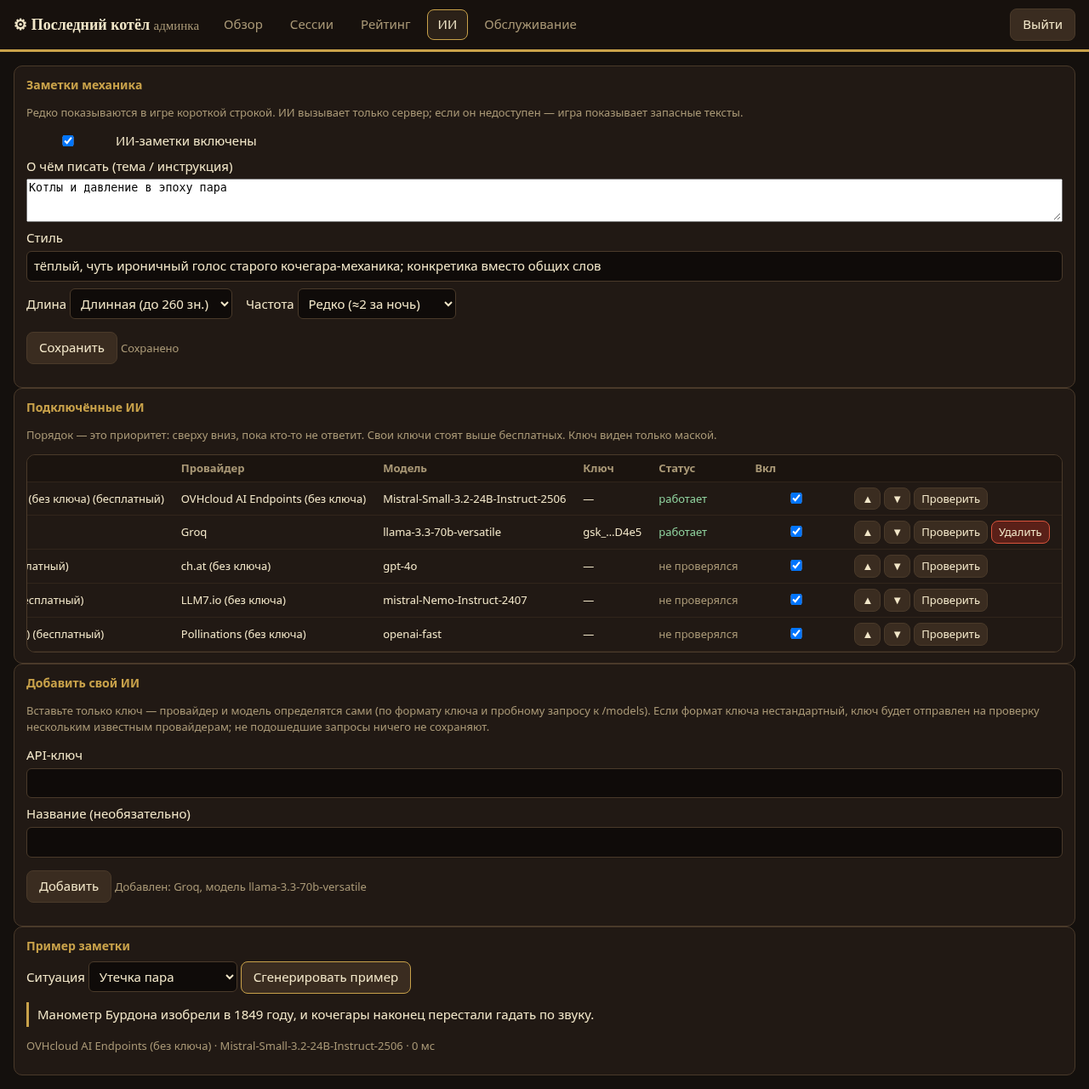
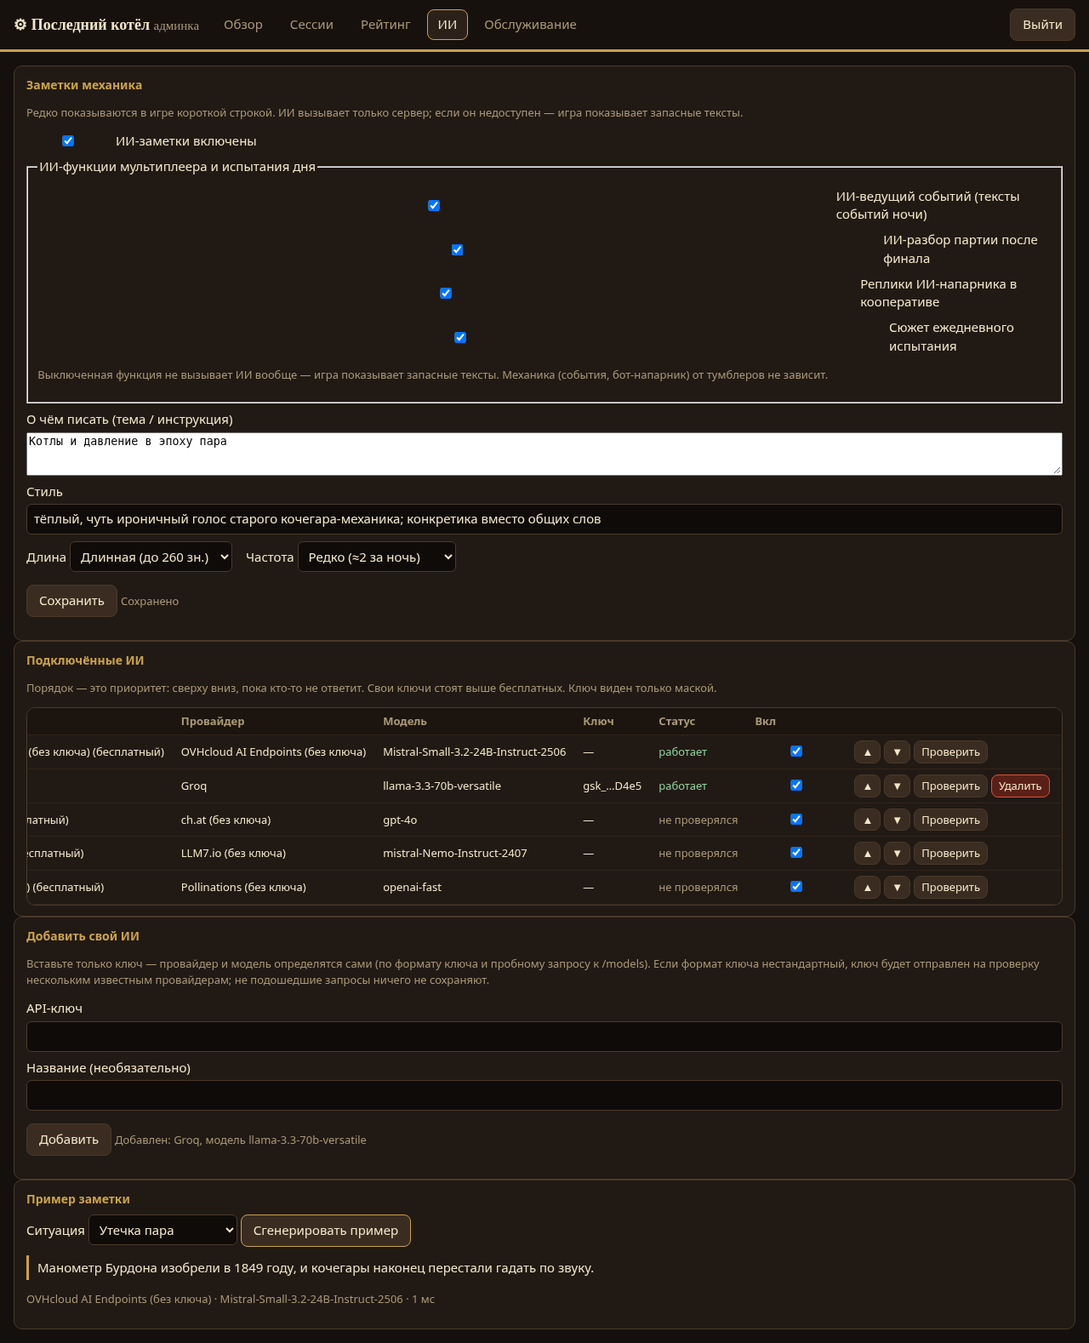
2.0 м2: e2e соревнования/бота/дня/достижений, воркер: маршруты дня и разбора, тесты админ-переключателей

diff --git a/tests/pw/versus.pw.js b/tests/pw/versus.pw.js
@@ -1,0 +1,132 @@
+// e2e 2.0 м2: соревнование на два браузера (общий сид, живая таблица, финал с местами, проверка сервером), ИИ-напарник в кооперативе,
+// испытание дня (задание, рейтинг дня), ссылка-вызов, достижения, карточка-шаринг. Против локального стенда; часы комнат ускорены (SEG_MP_TIMESCALE).
+const { ok, results, sleep, launch } = require('./lib');
+const path = require('path'), fs = require('fs');
+const SHOTS = path.resolve(__dirname, '../../screenshots/v2.0'); fs.mkdirSync(SHOTS, { recursive: true });
+const G = (p, f, a) => p.evaluate(f, a);
+const until = async (p, f, ms = 15000, arg) => { const t0 = Date.now(); while (Date.now() - t0 < ms) { try { if (await p.evaluate(f, arg)) return true; } catch (e) { /* перезагрузка */ } await sleep(150); } return false; };
+
+(async () => {
+  const stack = await require('../devstack').start({ env: { SEG_MP_TIMESCALE: '30', SEG_MP_CREATES: '60' } });
+  const b = await launch(); const errs = [];
+  const mk = async (opts) => { const ctx = await b.newContext(opts); const page = await ctx.newPage(); await ctx.grantPermissions([], {}).catch(() => {});
+    page.on('console', m => { if (m.type() === 'error' && !/\/api\/(g|admin)\//.test(m.location().url || '')) errs.push(m.text()); });
+    page.on('pageerror', e => errs.push('pageerror: ' + e.message)); return { ctx, page }; };
+  const A = await mk({ viewport: { width: 1280, height: 800 } });
+  const B = await mk({ viewport: { width: 412, height: 860 }, deviceScaleFactor: 2, isMobile: true, hasTouch: true });
+  const pa = A.page, pb = B.page;
+  const Q = `?debug&ws=${encodeURIComponent(stack.ws)}`;
+  try {
+    console.log('\n== Соревнование: лобби');
+    await pa.goto(stack.base + '/' + Q); await pa.waitForSelector('#b-mp', { state: 'visible' });
+    await pa.click('#b-mp'); await pa.waitForSelector('#lobby:not([hidden])');
+    ok(await pa.isVisible('#mp-mode'), 'в лобби есть выбор режима');
+    await pa.fill('#mp-nick', 'Анна'); await pa.selectOption('#mp-max', '2'); await pa.selectOption('#mp-mode', 'versus'); await pa.click('#mp-create');
+    ok(await until(pa, () => !document.getElementById('mp-room').hidden), 'комната создана');
+    ok((await pa.textContent('#mp-modename')).includes('Соревнование'), 'метка режима «Соревнование»');
+    ok(await pa.isHidden('#mp-bot'), 'ИИ-напарника в соревновании нет');
+    const code = await pa.textContent('#mp-roomcode');
+    await pb.goto(stack.base + '/' + Q + '&room=' + code); await pb.waitForSelector('#lobby:not([hidden])');
+    await pb.fill('#mp-nick', 'Борис'); await pb.click('#mp-join');
+    ok(await until(pb, () => !document.getElementById('mp-room').hidden) && (await pb.textContent('#mp-modename')).includes('Соревнование'), 'второй игрок в комнате соревнования');
+    await pb.click('#mp-ready'); ok(await until(pa, () => !document.getElementById('mp-start').disabled), 'старт доступен');
+    await pa.click('#mp-start');
+    ok(await until(pa, () => window.__game.ui === 'play' && window.__game.mp.inGame) && await until(pb, () => window.__game.ui === 'play' && window.__game.mp.inGame), 'оба в гонке');
+    const seedA = await G(pa, () => window.__game.s.seed), seedB = await G(pb, () => window.__game.s.seed);
+    ok(seedA > 0 && seedA === seedB, 'общий сид у обоих: ' + seedA);
+    ok(JSON.stringify(await G(pa, () => window.__game.mp.mine.valves)) === '[0,1,2,3]' && await G(pa, () => window.__game.mp.mine.shovel), 'у каждого свой котёл целиком (все вентили и лопата)');
+    ok(await until(pa, () => !document.getElementById('mp-board').hidden && document.querySelectorAll('#mp-board li').length === 2, 8000), 'живая таблица гонки: 2 строки');
+    ok(await until(pb, () => !document.getElementById('mp-board').hidden && document.querySelectorAll('#mp-board li').length === 2, 8000), 'таблица видна и на телефоне');
+    // Анна активно играет (лопата), Борис молчит → у Анны очки/огонь выше
+    for (let i = 0; i < 6; i++) { const sp = await pa.evaluate(() => window.__game.shovelPt()); await pa.mouse.click(sp.x, sp.y); await sleep(260); }
+    ok(await until(pa, () => window.__game.s.fire > 5, 5000), 'бросок угля работает в своём котле');
+    ok(await G(pb, () => window.__game.s.fire) < await G(pa, () => window.__game.s.fire), 'котёл соперника не затронут');
+    await pa.screenshot({ path: path.join(SHOTS, 'versus-play-desktop.png') }); await pb.screenshot({ path: path.join(SHOTS, 'versus-play-mobile.png') });
+
+    console.log('\n== Соревнование: финал');
+    const drive = async (p) => { const t0 = Date.now(); while (Date.now() - t0 < 170000) { const st = await G(p, () => window.__game.ui).catch(() => ''); if (st === 'ending') return true; if (st === 'card') await p.click('#c-opts .choice >> nth=0').catch(() => {}); else if (st === 'summary') await p.click('#b-next').catch(() => {}); await sleep(200); } return false; };
+    const [ea, eb] = await Promise.all([drive(pa), drive(pb)]);
+    ok(ea && eb, 'оба дошли до финального экрана');
+    ok(await until(pa, () => document.querySelectorAll('#e-places-list li').length === 2 && !document.getElementById('e-places').hidden, 20000), 'финал: список мест (2 игрока)');
+    ok(await until(pb, () => document.querySelectorAll('#e-places-list li').length === 2, 20000), 'тот же список на телефоне');
+    const txt = await pa.$$eval('#e-places-list li', l => l.map(x => x.textContent));
+    ok(txt.some(t => t.includes('Анна')) && txt.some(t => t.includes('Борис')), 'в местах оба ника');
+    ok(txt.every(t => /проверено сервером/.test(t)), 'у каждого отметка «проверено сервером»');
+    const scs = await pa.$$eval('#e-places-list li span', l => l.map(x => parseInt(x.textContent, 10)));
+    ok(scs.length === 2 && scs[0] >= scs[1], 'места отсортированы по очкам: ' + scs.join(' ≥ '));
+    ok(await until(pa, () => !document.getElementById('e-review').hidden && document.getElementById('e-review').textContent.length > 20, 20000), 'разбор партии (ИИ или запасной) показан');
+    ok(!(await pa.textContent('#e-review')).includes('Анна') && !(await pa.textContent('#e-review')).includes('Борис'), 'в разборе нет ников');
+    ok(await G(pa, () => !!window.__game.meta.ach.rival), 'достижение «Соперник» получено');
+    await pa.screenshot({ path: path.join(SHOTS, 'versus-final-desktop.png') }); await pb.screenshot({ path: path.join(SHOTS, 'versus-final-mobile.png'), fullPage: false });
+    // шаринг: карточка и ссылка
+    await pa.click('#b-share'); await sleep(700);
+    ok((await pa.textContent('#e-share-msg')).length > 5, 'шаринг: есть сообщение («' + (await pa.textContent('#e-share-msg')).slice(0, 60) + '»)');
+    const px = await G(pa, () => { const c = document.getElementById('share-cv'), d = c.getContext('2d').getImageData(0, 0, c.width, c.height).data; let n = 0; for (let i = 0; i < d.length; i += 4 * 97) if (d[i] > 120) n++; return { w: c.width, h: c.height, n }; });
+    ok(px.w === 1200 && px.h === 630 && px.n > 200, 'карточка-картинка 1200×630 нарисована (светлых точек ' + px.n + ')');
+    ok(await G(pa, () => !!window.__game.meta.ach.sharer), 'достижение за шаринг');
+
+    console.log('\n== ИИ-напарник в кооперативе');
+    const pc = (await mk({ viewport: { width: 1280, height: 800 } })).page;
+    await pc.goto(stack.base + '/' + Q); await pc.click('#b-mp'); await pc.fill('#mp-nick', 'Вера'); await pc.selectOption('#mp-max', '2'); await pc.click('#mp-create');
+    ok(await until(pc, () => !document.getElementById('mp-room').hidden), 'кооператив создан');
+    ok(await pc.isVisible('#mp-bot'), 'кнопка «+ ИИ-напарник» видна хозяину');
+    await pc.click('#mp-bot');
+    ok(await until(pc, () => document.querySelectorAll('#mp-players li.bot').length === 1), 'бот в списке игроков');
+    ok((await pc.textContent('#mp-players li.bot')).includes('Механик ИИ'), 'имя «Механик ИИ»');
+    ok(await until(pc, () => !document.getElementById('mp-start').disabled), 'старт доступен: человек + бот');
+    await pc.click('#mp-start');
+    ok(await until(pc, () => window.__game.ui === 'play' && window.__game.mp.inGame), 'игра с ботом началась');
+    ok(await until(pc, () => window.__game.s.t > 3 && window.__game.s.fire > 3, 40000), 'бот сам подбрасывает уголь (огонь растёт без действий человека)');
+    ok(await until(pc, () => document.querySelectorAll('#mp-chatlog li').length >= 1, 40000), 'бот пишет реплику в чат');
+    await pc.screenshot({ path: path.join(SHOTS, 'coop-bot.png') });
+
+    console.log('\n== Испытание дня');
+    const pd = (await mk({ viewport: { width: 1280, height: 800 } })).page;
+    await pd.goto(stack.base + '/' + Q); await pd.waitForSelector('#b-daily', { state: 'visible' });
+    await pd.click('#b-daily');
+    ok(await until(pd, () => !document.getElementById('d-play').disabled && document.getElementById('d-title').textContent.length > 3), 'загружено задание дня: ' + (await pd.textContent('#d-title')));
+    ok((await pd.textContent('#d-story')).length > 20 && (await pd.textContent('#d-goal')).startsWith('Задание'), 'сюжет и цель задания показаны');
+    await pd.screenshot({ path: path.join(SHOTS, 'daily-overlay.png') });
+    await pd.click('#d-play');
+    ok(await until(pd, () => window.__game.ui === 'play' && window.__game.s.hostOn === true), 'старт испытания: ведущий включён');
+    const dseed = await G(pd, () => window.__game.s.seed);
+    const apiSeed = await (await fetch(stack.base + '/api/g/daily')).json();
+    ok(apiSeed.seed === dseed, 'сид игры = сид дня с сервера (' + dseed + ')');
+    await pd.evaluate(() => { window.__game.setBot('good', { react: 0.5 }); window.__game.setSpeed(30); });
+    const dr = await (async () => { const t0 = Date.now(); while (Date.now() - t0 < 170000) { const st = await G(pd, () => window.__game.ui); if (st === 'ending') return true; if (st === 'card') await pd.click('#c-opts .choice >> nth=0').catch(() => {}); else if (st === 'summary') await pd.click('#b-next').catch(() => {}); await sleep(120); } return false; })();
+    ok(dr, 'испытание пройдено до финала');
+    ok(await pd.isVisible('#e-daily-msg') && (await pd.textContent('#e-daily-msg')).includes('Задание'), 'финал показывает исход задания: ' + (await pd.textContent('#e-daily-msg')).slice(0, 70));
+    ok(await pd.evaluate(() => localStorage.getItem('last-boiler-save-v1')) === null, 'одиночное сохранение испытанием не затронуто');
+    await pd.fill('#e-nick', 'Дарья'); await pd.click('#b-submit');
+    ok(await until(pd, () => /место/.test(document.getElementById('e-rank-msg').textContent), 8000), 'результат записан в рейтинг дня: ' + (await pd.textContent('#e-rank-msg')).slice(0, 80));
+    const board = await (await fetch(stack.base + '/api/g/daily/board')).json();
+    ok(board.entries.length === 1 && board.entries[0].nick === 'Дарья', 'рейтинг дня на сервере содержит запись');
+    ok(await G(pd, () => window.__game.meta.st.streak === 1 && !!window.__game.meta.ach.first_dawn), 'серия дней = 1, достижения выданы');
+    await pd.screenshot({ path: path.join(SHOTS, 'daily-final.png') });
+    // достижения: экран
+    await pd.click('#b-emenu'); await pd.click('#b-ach');
+    const cnt = await pd.$$eval('#a-list li', l => ({ n: l.length, got: l.filter(x => !x.classList.contains('lock')).length, svg: l.filter(x => x.querySelector('svg')).length }));
+    ok(cnt.n >= 20 && cnt.svg === cnt.n && cnt.got >= 1, `экран достижений: ${cnt.n} шт., получено ${cnt.got}, у всех значок`);
+    await pd.screenshot({ path: path.join(SHOTS, 'achievements.png') });
+    await pd.click('#a-close');
+    // вкладки рейтинга: сезон и день
+    await pd.evaluate(() => { document.getElementById('b-board').hidden = false; }); await pd.click('#b-board');
+    await pd.click('#board .tab[data-board="day"]'); ok(await until(pd, () => document.querySelectorAll('#lb-list li').length === 1), 'вкладка «День»: 1 запись');
+    await pd.click('#board .tab[data-board="season"]'); ok(await until(pd, () => /Сезон|Пока пусто/.test(document.getElementById('lb-msg').textContent)), 'вкладка «Сезон» отвечает');
+    await pd.click('#b-lbclose');
+
+    console.log('\n== Ссылка-вызов');
+    const pe = (await mk({ viewport: { width: 412, height: 860 }, isMobile: true, hasTouch: true })).page;
+    await pe.goto(stack.base + '/' + Q + '&seed=4242&c=900'); await pe.waitForSelector('#t-chal:not([hidden])');
+    ok((await pe.textContent('#t-chal')).includes('4242') && (await pe.textContent('#t-chal')).includes('900'), 'баннер вызова: сид и счёт');
+    await pe.click('#b-chal');
+    ok(await until(pe, () => window.__game.ui === 'play' && window.__game.s.seed === 4242), 'вызов стартует с сидом из ссылки');
+    await sleep(600); ok(await pe.evaluate(() => localStorage.getItem('last-boiler-save-v1')) === null, 'вызов не пишет одиночное сохранение');
+    const pf = (await mk({ viewport: { width: 412, height: 860 } })).page;
+    await pf.goto(stack.base + '/' + Q + '&seed=abc&c=<script>'); await pf.waitForSelector('#b-new'); ok(await pf.isHidden('#t-chal'), 'мусорная ссылка вызова игнорируется');
+
+    ok(errs.length === 0, 'ошибок в консоли нет' + (errs.length ? ': ' + errs.slice(0, 3).join(' | ') : ''));
+  } catch (e) { ok(false, 'исключение: ' + (e.stack || e).toString().slice(0, 500)); await pa.screenshot({ path: path.join(SHOTS, 'fail-a.png') }).catch(() => {}); }
+  await b.close(); await stack.stop();
+  const r = results(); console.log(r.fails ? `\nПРОВАЛЕНО: ${r.fails}` : `\nВСЕ ПРОВЕРКИ ПРОЙДЕНЫ (${r.passes})`); process.exit(r.fails ? 1 : 0);
+})();

diff --git a/tests/pw/ai.pw.js b/tests/pw/ai.pw.js
@@ -28,6 +28,17 @@ const GROQ = 'gsk_' + 'a1B2c3D4e5'.repeat(5);
     await lp.page.click('[data-tab=ai]'); await sleep(900);
     ok(await lp.page.isVisible('#tab-ai') && (await lp.page.$$('#aiTable tbody tr')).length === 4, 'раздел «ИИ»: 4 встроенных бесплатных провайдера в списке');
     ok(!(await lp.page.isVisible('#aiVaultWarn')), 'шифрование ключей настроено — предупреждения нет');
+    // 2.0 м2: переключатели ИИ-функций игры (ведущий, разбор, напарник, сюжет дня)
+    ok(await lp.page.isChecked('#aiHost') && await lp.page.isChecked('#aiReview') && await lp.page.isChecked('#aiCompanion') && await lp.page.isChecked('#aiDaily'), 'вкладка «ИИ»: четыре новых переключателя по умолчанию включены');
+    const rv = async () => (await fetch(base + '/api/g/review', { method: 'POST', headers: { 'content-type': 'application/json' }, body: JSON.stringify({ nights: 10, pop: 800, burnouts: 0, smog: 20, ending: 'light', mode: 'solo' }) })).json();
+    ok((await rv()).enabled === true && (await rv()).text.length > 20, 'разбор партии отвечает, пока включён');
+    await lp.page.uncheck('#aiReview'); await lp.page.uncheck('#aiDaily'); await lp.page.click('#aiSave'); await sleep(700);
+    const st0 = await (await adminLogin(base, stack.password, '198.51.100.93')).json('/api/admin/ai');
+    ok(st0.settings.review === false && st0.settings.daily === false && st0.settings.host === true && st0.settings.companion === true, 'выключатели сохранились на сервере (review/daily выкл., host/companion вкл.)');
+    await sleep(5200);   // кэш настроек ИИ на сервере живёт до 5 с
+    ok((await rv()).enabled === false, 'разбор выключен в админке → /api/g/review отдаёт enabled:false');
+    ok((await (await fetch(base + '/api/g/daily')).json()).quest.src === 'fallback', 'сюжет дня выключен → запасной текст задания');
+    await lp.page.check('#aiReview'); await lp.page.check('#aiDaily'); await lp.page.click('#aiSave'); await sleep(600);
     await lp.page.fill('#aiTopic', 'Котлы и давление в эпоху пара'); await lp.page.selectOption('#aiFreq', 'rare'); await lp.page.selectOption('#aiLength', 'long');
     await lp.page.click('#aiSave'); await sleep(500);
     const st = await (await adminLogin(base, stack.password, '198.51.100.92')).json('/api/admin/ai');

diff --git a/_worker.js b/_worker.js
@@ -13,7 +13,8 @@
  */
 export const BACKEND = 'https://185-255-133-179.sslip.io/steam';
 export const ADMIN_HOSTS = new Set(['steam-engine-game.pages.dev']);
-const PUBLIC_ROUTES = { '/api/g/leaderboard': 'GET', '/api/g/run': 'POST', '/api/g/event': 'POST', '/api/g/score': 'POST', '/api/g/note': 'GET' };
+const PUBLIC_ROUTES = { '/api/g/leaderboard': 'GET', '/api/g/run': 'POST', '/api/g/event': 'POST', '/api/g/score': 'POST', '/api/g/note': 'GET',
+  '/api/g/daily': 'GET', '/api/g/daily/score': 'POST', '/api/g/daily/board': 'GET', '/api/g/review': 'POST' };   // 2.0: испытание дня и разбор партии
 const METHODS = new Set(['GET', 'HEAD', 'POST', 'PUT', 'DELETE']);
 const MAX_BODY = 8 * 1024;
 const FORWARD_REQ = ['accept', 'content-type', 'cookie', 'origin', 'x-csrf-token'];
@@ -49,9 +50,9 @@ export async function proxy(request, env, url) {
   if (request.method !== 'GET' && request.method !== 'HEAD') init.body = await request.arrayBuffer();
   if (init.body && init.body.byteLength > MAX_BODY) return plain(413, 'too large');
 
-  // бэкенд не должен «вешать» игру: публичные вызовы — не дольше 2,5 с (клиент всё равно ждёт максимум 3 с), админка — до 15 с
+  // бэкенд не должен «вешать» игру: публичные вызовы — не дольше 2,5 с (клиент всё равно ждёт максимум 3 с; разбор партии ИИ — до 14 с), админка — до 15 с
   const ac = new AbortController(); init.signal = ac.signal;
-  const limit = url.pathname.startsWith('/api/g/') ? 2500 : url.pathname.startsWith('/api/admin/ai') ? 40000 : 15000;   // раздел «ИИ»: проверка ключа/пример могут идти до ~30 с
+  const limit = url.pathname === '/api/g/review' ? 14000 : url.pathname.startsWith('/api/g/') ? 2500 : url.pathname.startsWith('/api/admin/ai') ? 40000 : 15000;   // раздел «ИИ»: проверка ключа/пример могут идти до ~30 с
   const timer = setTimeout(() => ac.abort(), limit);
   let up;
   try { up = await fetch(base + url.pathname + url.search, init); } catch (e) { clearTimeout(timer); return plain(ac.signal.aborted ? 504 : 502, ac.signal.aborted ? 'backend timeout' : 'backend unavailable'); }

diff --git a/backend/app/mp.py b/backend/app/mp.py
@@ -57,6 +57,7 @@ class Limits:
     ping_every_s: float = 25
     board_every_ticks: int = 30         # живая таблица соревнования ≈2 раза в секунду
     bot_chat_gap_s: float = 18.0
+    timescale: float = 1.0              # ТОЛЬКО для тестов (SEG_MP_TIMESCALE): ускорение игровых часов комнат; в проде 1
 
     @classmethod
     def from_env(cls, env: Any = None) -> "Limits":
@@ -74,6 +75,7 @@ class Limits:
         lim.create_window_s = num("SEG_MP_CREATE_WINDOW", lim.create_window_s, 10, 86400)
         lim.max_rooms = int(num("SEG_MP_MAX_ROOMS", lim.max_rooms, 1, 5000))
         lim.conns_per_ip = int(num("SEG_MP_CONNS_PER_IP", lim.conns_per_ip, 1, 100))
+        lim.timescale = num("SEG_MP_TIMESCALE", lim.timescale, 1, 40)
         return lim
 
 
@@ -1179,13 +1181,13 @@ class Hub:
                 continue
             if room.last_tick_t is None:
                 room.last_tick_t = now
-            room._acc += min(0.1, max(0.0, now - room.last_tick_t))
+            room._acc += min(0.1, max(0.0, now - room.last_tick_t)) * self.lim.timescale
             room.last_tick_t = now
             n = int(room._acc / sc.DT)
             if n:
                 room._acc -= n * sc.DT
                 try:
-                    room.advance(min(n, 6))
+                    room.advance(min(n, 6 * int(self.lim.timescale)))
                 except Exception:                        # сбой в одной комнате не должен останавливать остальные
                     log.exception("room %s: tick failed", room.code)
                     room.state = "ended"; room.broadcast({"t": "left", "reason": "room_closed"}); room.players.clear()
